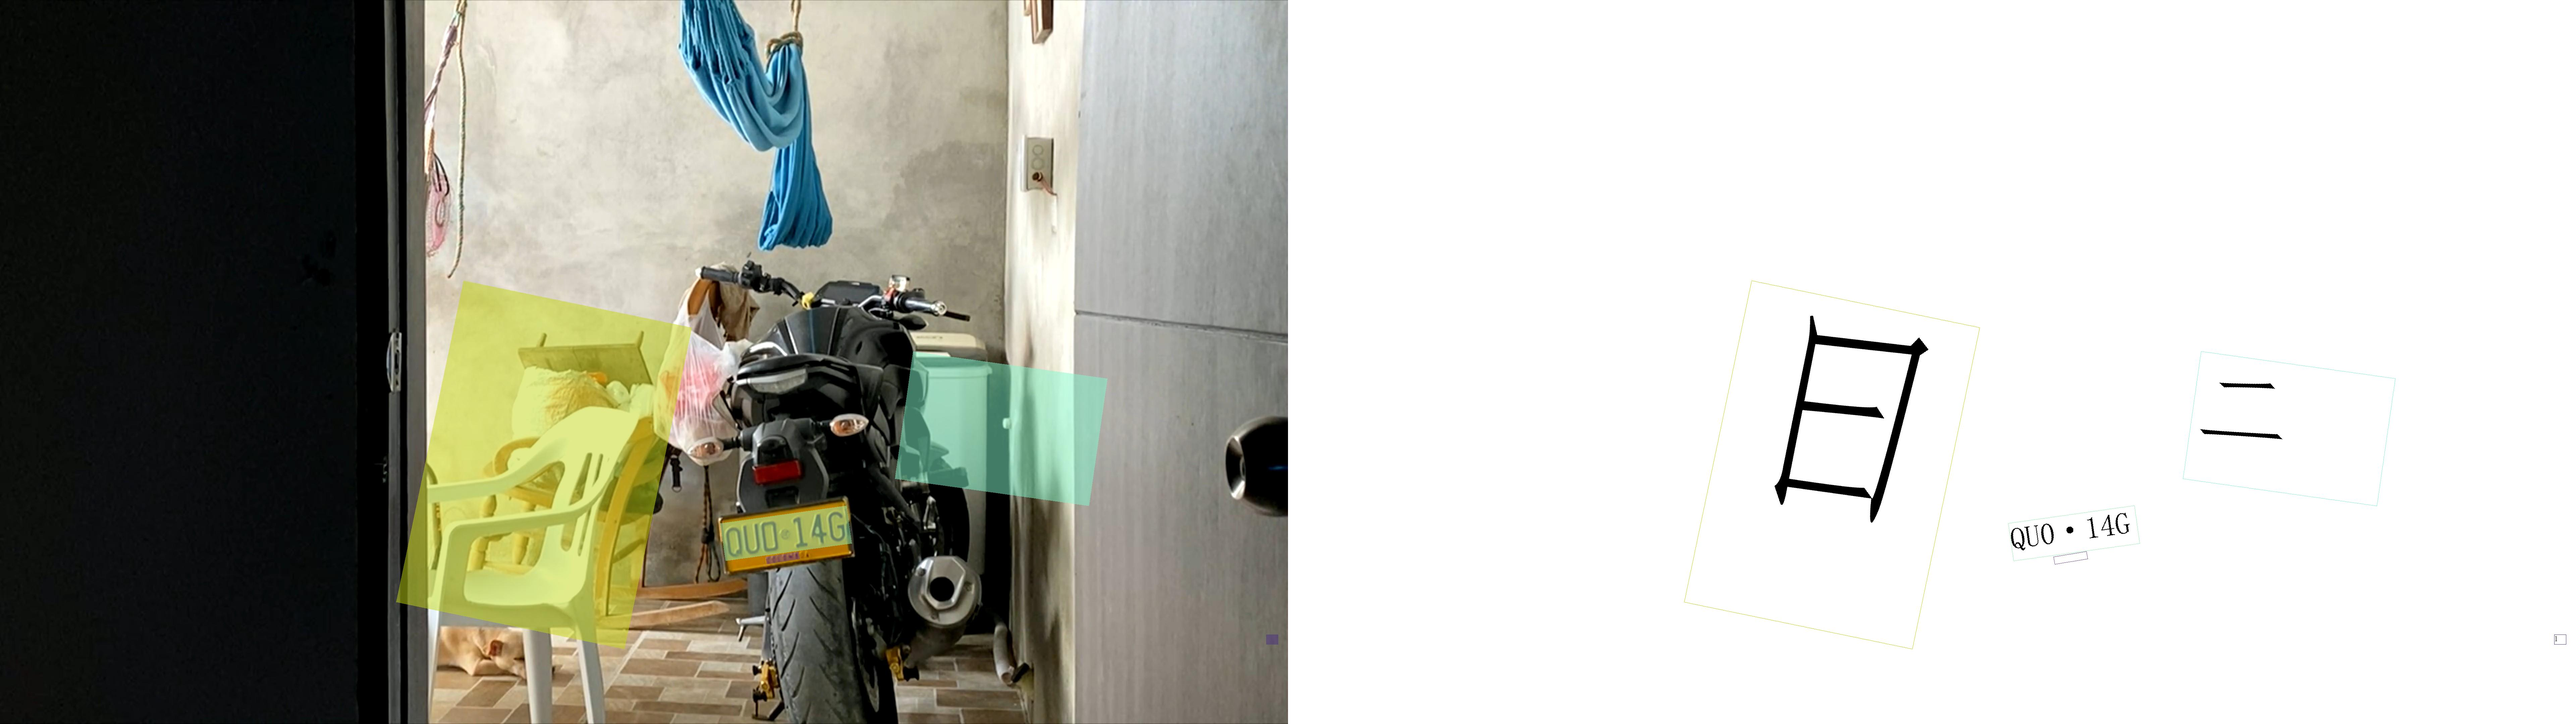
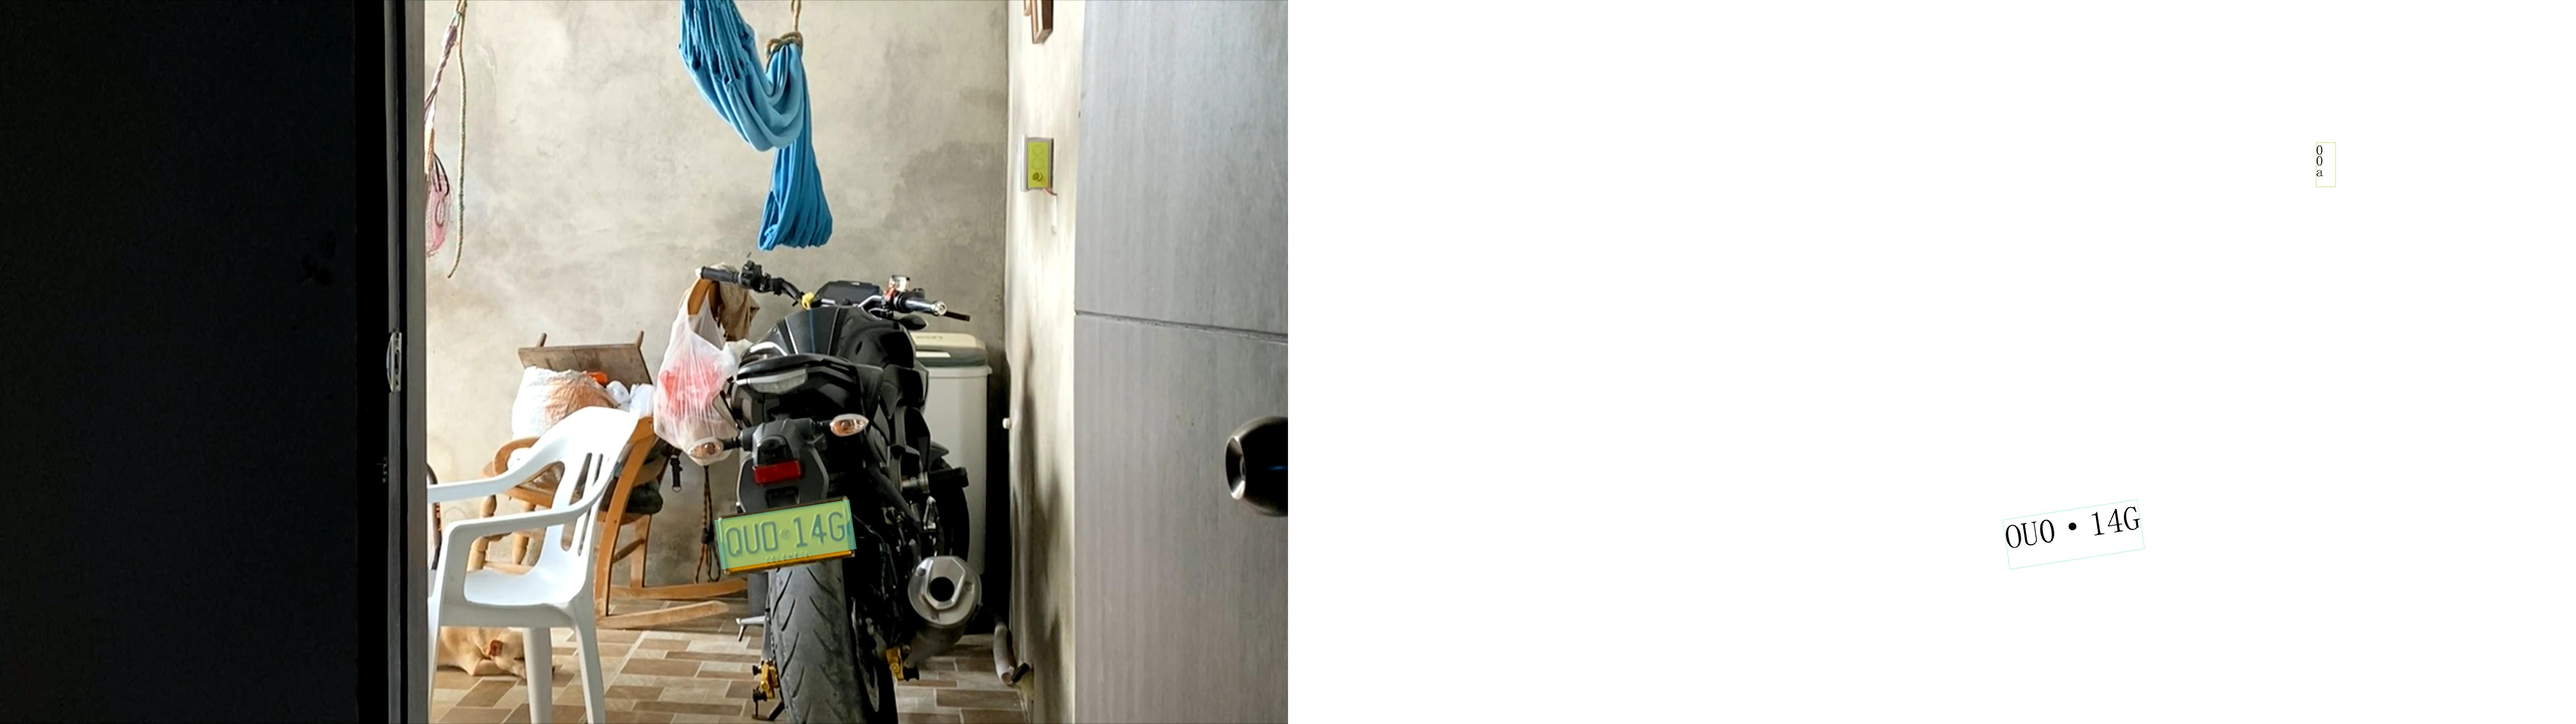
feat: Actualizar resultados de OCR y mejorar procesamiento de imágenes

diff --git a/test_paddleocr.py b/test_paddleocr.py
@@ -1,10 +1,26 @@
 
 from paddleocr import PaddleOCR
+import re
 
+def limpiar_texto(texto):
+    print("Texto original:", texto)
+    return re.sub(r"\s+", " ", texto.strip())
+
+
+# ocr = PaddleOCR(
+#     use_doc_orientation_classify=False, 
+#     use_doc_unwarping=False, 
+#     use_textline_orientation=False)
+
+# #para Dockerfile optimizado
 ocr = PaddleOCR(
-    use_doc_orientation_classify=False, 
-    use_doc_unwarping=False, 
-    use_textline_orientation=False) # 文本检测+文本识别
+    text_detection_model_name="PP-OCRv5_mobile_det",
+    text_recognition_model_name="PP-OCRv5_mobile_rec",
+    use_doc_orientation_classify=True,
+    use_doc_unwarping=True,
+    use_textline_orientation=True
+)
+
 # ocr = PaddleOCR(use_doc_orientation_classify=True, use_doc_unwarping=True) # 文本图像预处理+文本检测+方向分类+文本识别
 # ocr = PaddleOCR(use_doc_orientation_classify=False, use_doc_unwarping=False) # 文本检测+文本行方向分类+文本识别
 # ocr = PaddleOCR(
@@ -14,8 +30,17 @@ ocr = PaddleOCR(
 #     use_doc_unwarping=False,
 #     use_textline_orientation=False) # 更换 PP-OCRv5_mobile 模型
 # result = ocr.predict("./general_ocr_002.png")
-result = ocr.predict("./foto.jpg")
+result = ocr.predict("./placa.jpg")
 for res in result:
-    res.print()
-    res.save_to_img("output")
-    res.save_to_json("output")
+        print("==== RESULTADO OCR ====")
+        # Salida original
+        res.print()
+        # res.save_to_img("output")
+        res.save_to_json("output")
+
+        print("----- Diferentes formatos de salida -----")
+        print(res['rec_texts'][0])
+
+        # Texto simple
+        print("Texto detectado:", limpiar_texto(str(res['rec_texts'][0])))
+        print("Confianza:", round(float(res['rec_scores'][0]), 3))
